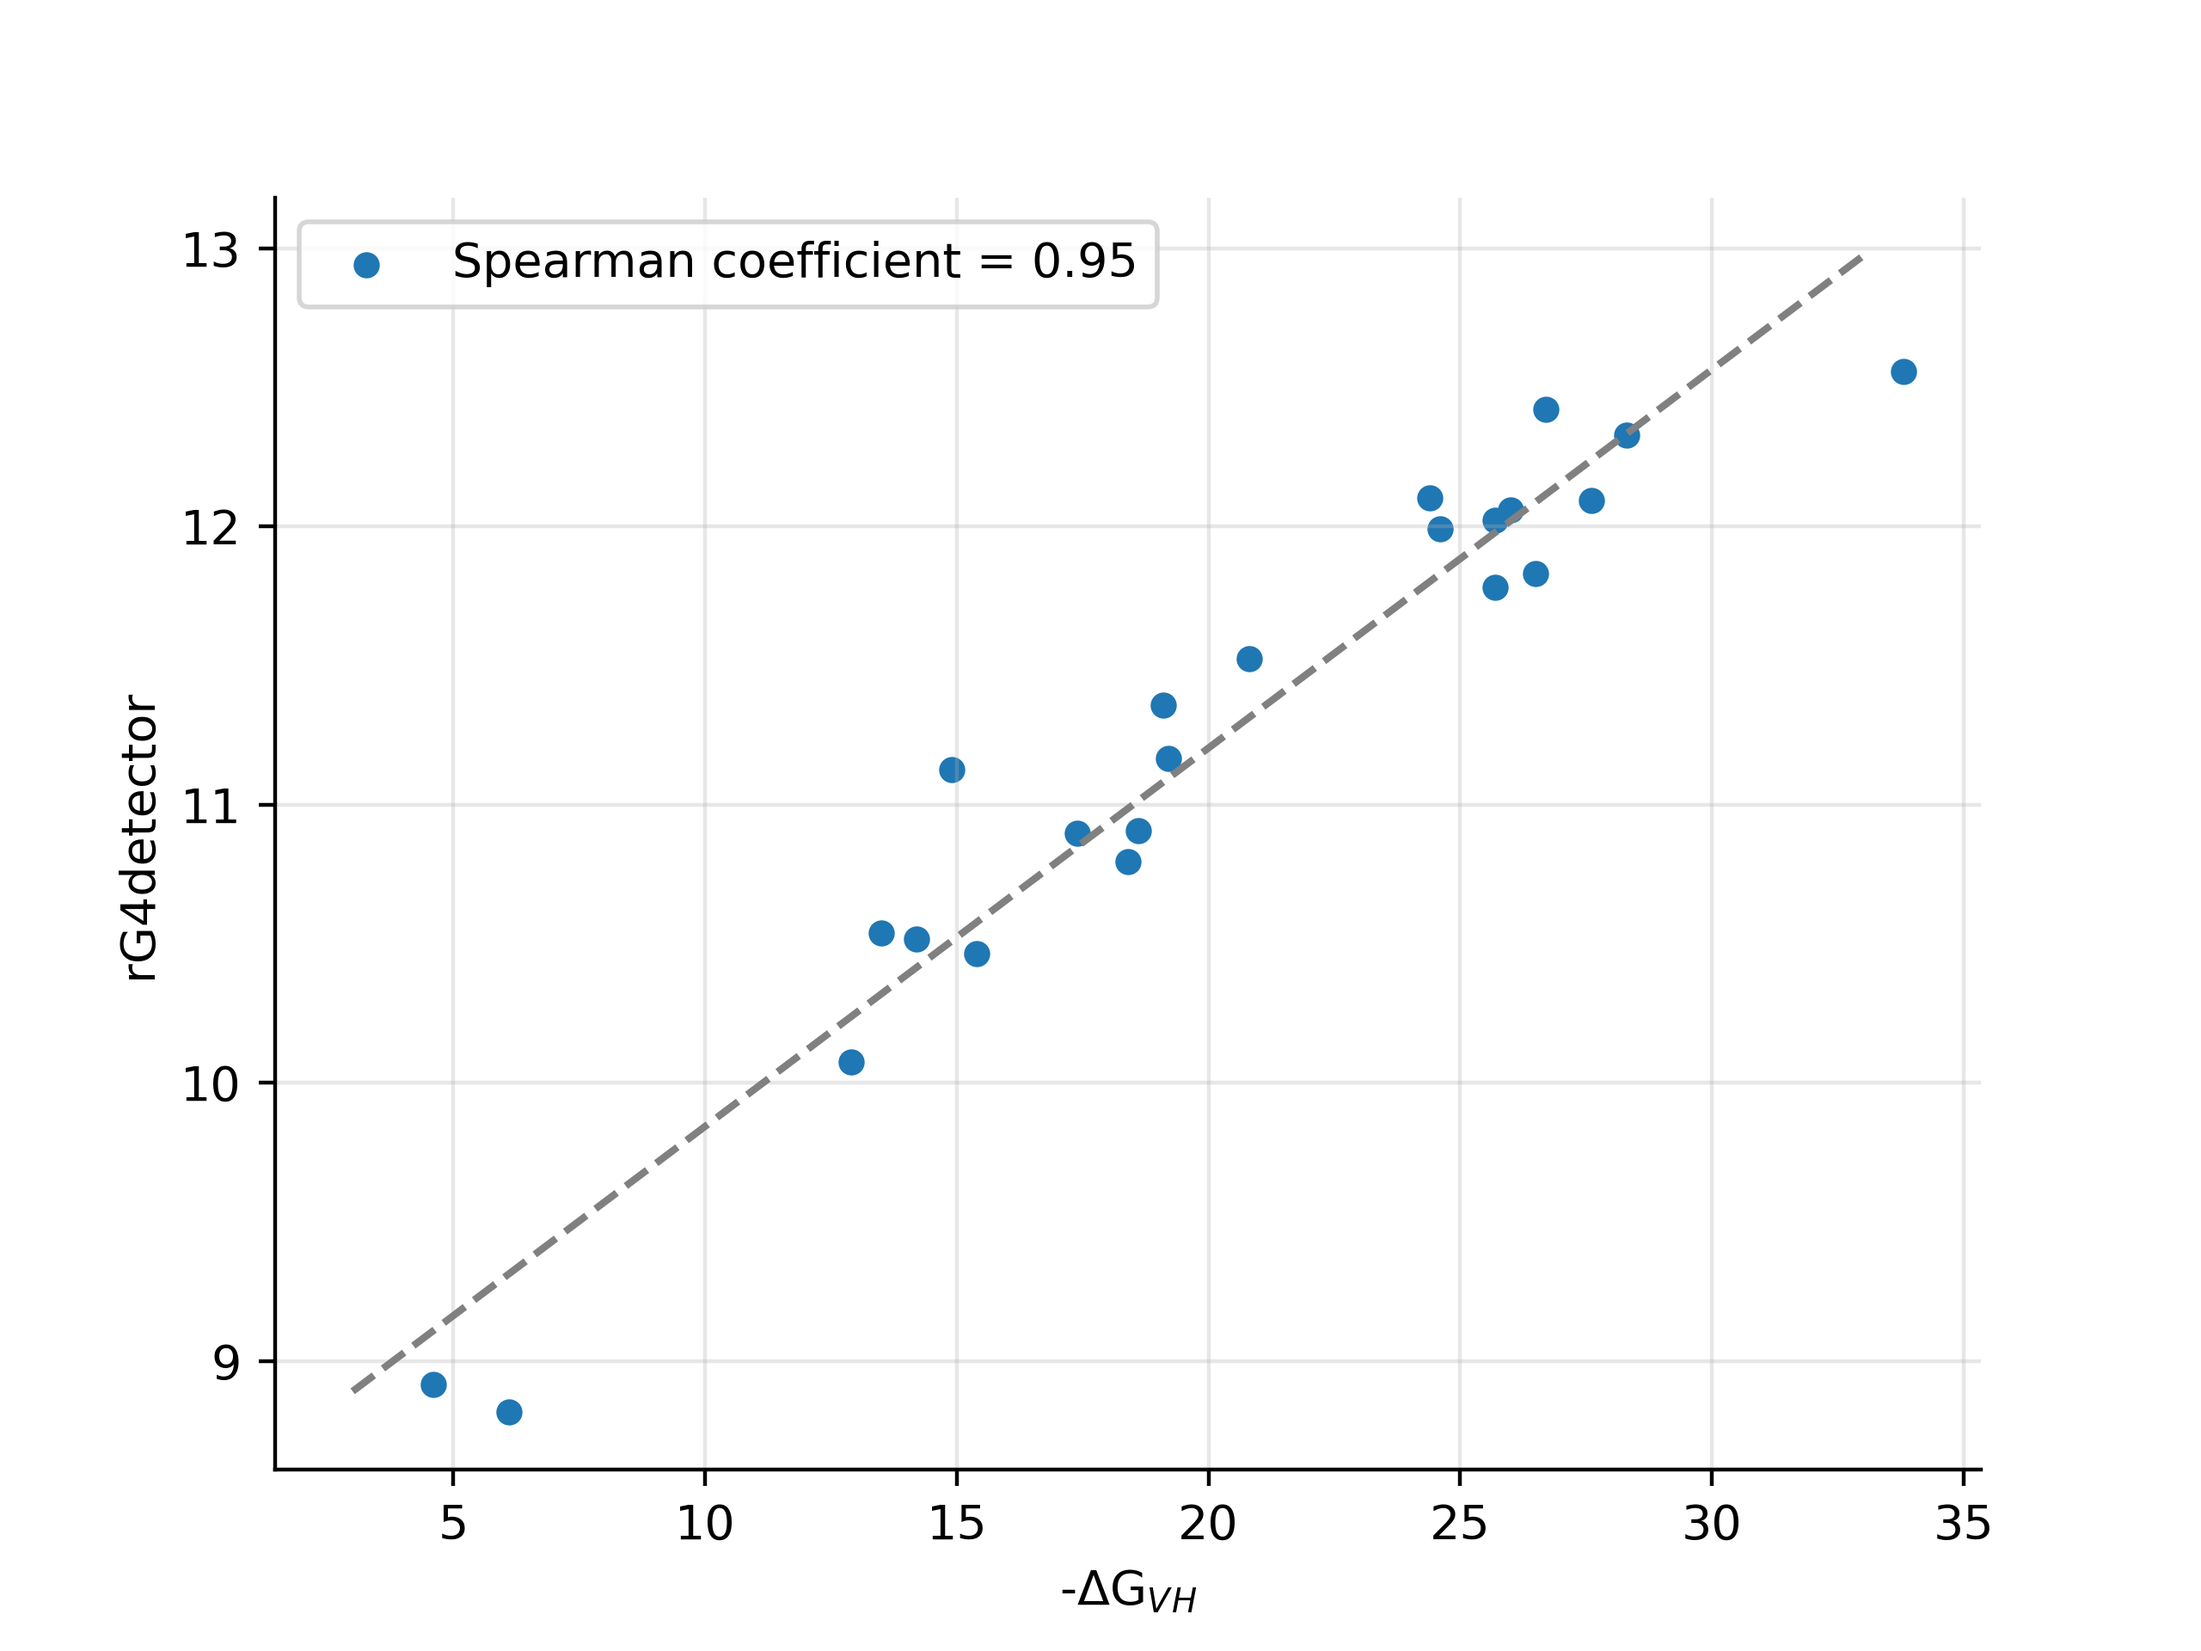
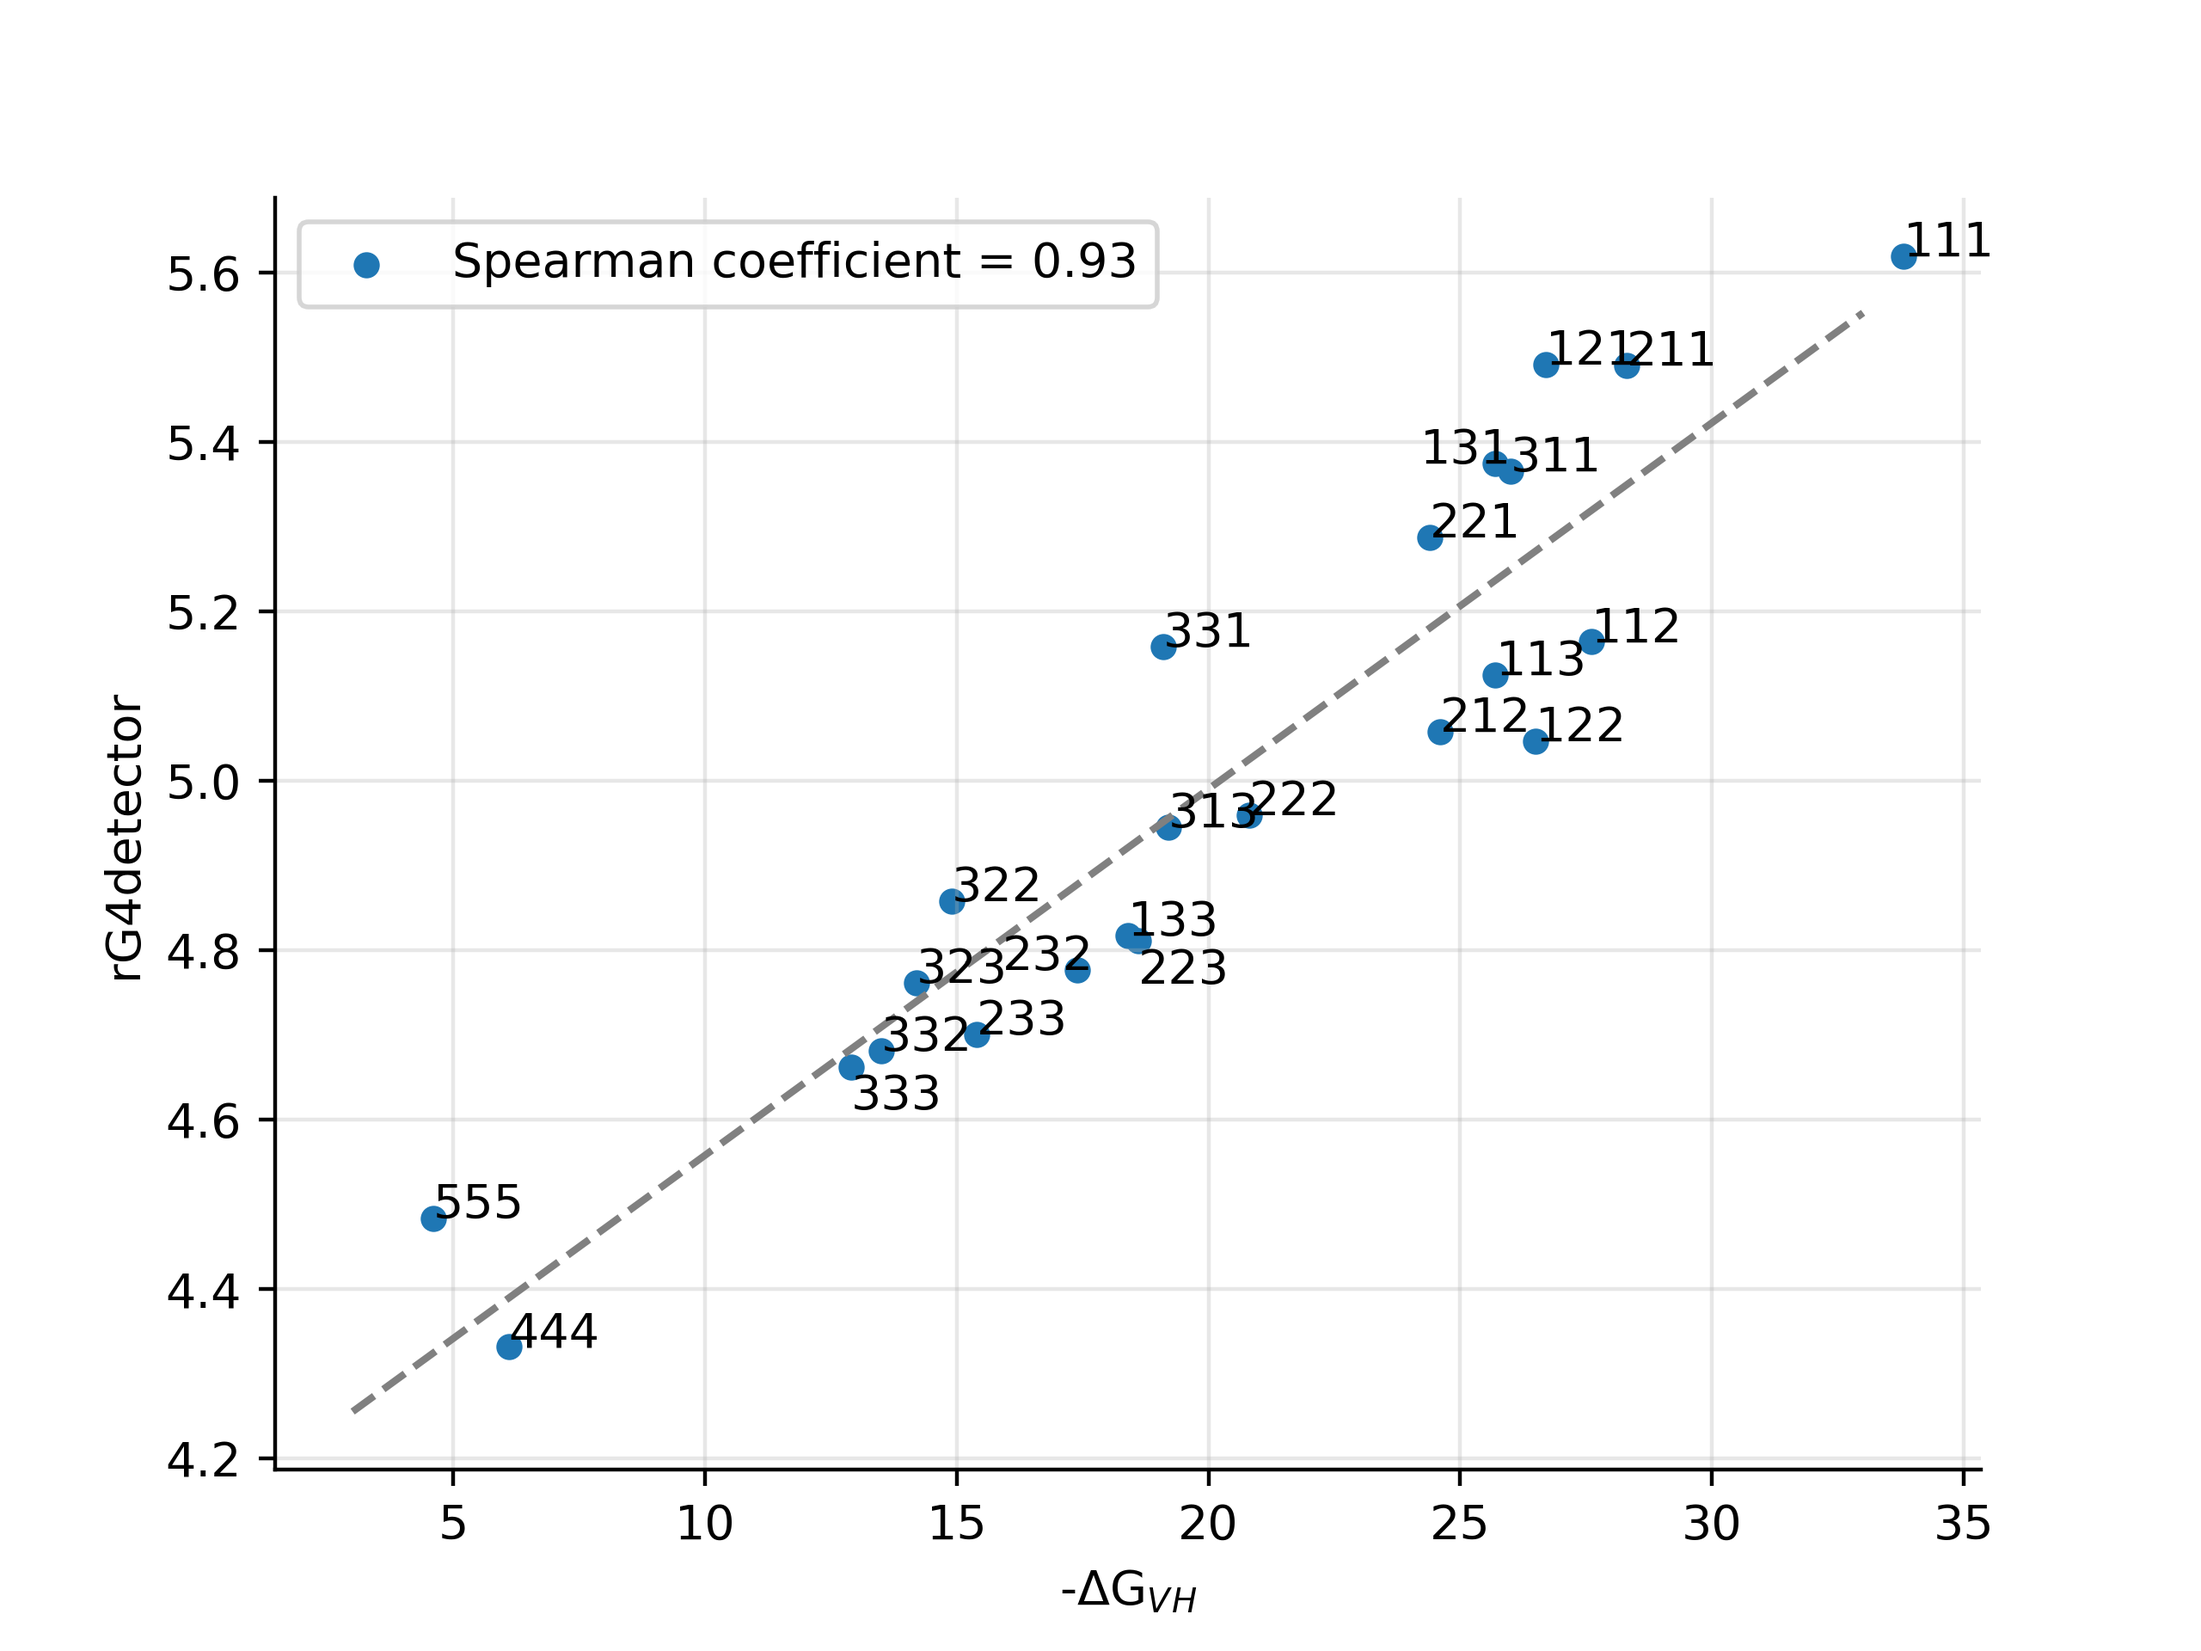
...

diff --git a/code/interpretation.py b/code/interpretation.py
@@ -93,17 +93,17 @@ def loop_length_test2(model, data_size, output=None, plot=True):
     ax.spines['top'].set_visible(False)
     ax.spines['right'].set_visible(False)
     # plt.text(location["Delta Gvh"], location["rG4detector"], loop[1:], c="b")
-    # for loop, location in data.iterrows():
-    #     if loop[1:] == "333":
-    #         plt.annotate(loop[1:], (location["Delta Gvh"], location["rG4detector"]-0.05))
-    #     elif loop[1:] == "223":
-    #         plt.annotate(loop[1:], (location["Delta Gvh"], location["rG4detector"]-0.05))
-    #     elif loop[1:] == "232":
-    #         plt.annotate(loop[1:], (location["Delta Gvh"]-1.5, location["rG4detector"]))
-    #     elif loop[1:] == "131":
-    #         plt.annotate(loop[1:], (location["Delta Gvh"]-1.5, location["rG4detector"]))
-    #     else:
-    #         plt.annotate(loop[1:], location)
+    for loop, location in data.iterrows():
+        if loop[1:] == "333":
+            plt.annotate(loop[1:], (location["Delta Gvh"], location["rG4detector"]-0.05))
+        elif loop[1:] == "223":
+            plt.annotate(loop[1:], (location["Delta Gvh"], location["rG4detector"]-0.05))
+        elif loop[1:] == "232":
+            plt.annotate(loop[1:], (location["Delta Gvh"]-1.5, location["rG4detector"]))
+        elif loop[1:] == "131":
+            plt.annotate(loop[1:], (location["Delta Gvh"]-1.5, location["rG4detector"]))
+        else:
+            plt.annotate(loop[1:], location)
     if output:
         plt.savefig(output + f"/Loop length combination test", dpi=400)
     if plot:
@@ -252,7 +252,7 @@ def stretches_length_test(model, data_size, output):
             seq = ("G"*stretch_size + "N"*loops_size)*3 + "G"*stretch_size
             # print(set_seq(seq, data_size, extra=0))
             seq_list.append(set_seq(seq, data_size))
-        stretch_predictions[loops_size] = make_prediction(model, seq_list)
+        stretch_predictions[loops_size] = make_prediction(model, seq_list).reshape(max_stretch)
         ax.plot(range(min_stretch, max_stretch + 1), stretch_predictions[loops_size], 'o--', label=f"loops size = {loops_size}")
     ax.set_xticks(range(min_stretch, max_stretch+1))
     plt.xlabel("Stretches length")
@@ -266,23 +266,22 @@ def stretches_length_test(model, data_size, output):
     # TODO
     if PLOT:
         plt.show()
-    # with open(output + f"Stretches influence.csv", "w") as f:
-    #     f.write("stretch size, rG4detector prediction")
-    #     for j, p in zip(range(min_stretch, max_stretch + 1), stretch_predictions):
-    #         f.write(f"{j+1},{p}")
+    stretch_predictions["Stretches length"] = range(min_stretch, max_stretch + 1)
+    data_df = pd.DataFrame.from_dict(stretch_predictions).set_index("Stretches length")
+    data_df.rename(columns={x: f"loop length {x}" for x in range(1, 5)}).to_csv(output + f"/Stretches influence.csv")
 
 
 
 
 def main(model, output):
     data_size = get_input_size(model)
-    loop_length_test(model, data_size, output)
+    # loop_length_test(model, data_size, output)
     loop_length_test2(model, data_size, output)
-    mutation_effect(model, data_size, output)
+    # mutation_effect(model, data_size, output)
     seq = "CTGCTGCCGCTACTGCGGAGTAGCTGCTTCCCTTCCTCCTCTCCCGGCGGCGGCGGCGGCAGCGGCGGAGGAGGAGGAGGAGGGGACCCGGGCGCAGAGAGCCG" \
           "GCCGGCGGCGCAGTTGCAGCGCGGAG"
-    mutation_map_test(model, data_size, output, seq)
-    stretches_length_test(model, data_size, output)
+    # mutation_map_test(model, data_size, output, seq)
+    # stretches_length_test(model, data_size, output)
 
 
 if __name__ == "__main__":

diff --git a/code/PARAMETERS.py b/code/PARAMETERS.py
@@ -9,15 +9,15 @@ HUMAN_V40_TRANSCRIPTOME_PATH = GENOMES_FILE + "gencode.v40.transcripts.fa"
 
 SCREENER_DETECTION_PATH = SCREENER_PATH + "detection/"
 SCREENER_DETECTION_PREDICTION_PATH = SCREENER_DETECTION_PATH + "screener_predictions.pkl"
-ENSEMBLE_SIZE = 1
+ENSEMBLE_SIZE = 11
 NUM_OF_ENSEMBLE_ITERATIONS = 50
 MOUSE_PATH = "independent_datasets/mouse/"
 MOUSE_DATA_PATH = MOUSE_PATH + "Table_S1_mouse.csv"
 
 MOUSE_SCREENER_LENGTH = 60
 DATA_SIZE = 80
-DETECTION_SIGMA = 7
-DETECTION_MU = 11
+DETECTION_SIGMA = 8
+DETECTION_MU = 12
 METHODS_LIST = ['cGcC', 'G4H', 'G4NN']
 DETECTION_RG4_SEEKER_HITS = "../detection/rg4-seeker-transcript-match-test.pkl"
 RG4_SEEKER_PATH = "../data/rG4-seeker-hits.csv"

diff --git a/code/calculate_correlation.py b/code/calculate_correlation.py
@@ -21,12 +21,12 @@ def get_rG4detector_human_corr(model, data_path):
     corr = pearsonr(preds, yTest)[0]
     sp_corr = spearmanr(preds, yTest)[0]
     print(f"rG4detector Spearman correlation = {sp_corr}")
-    # # TODO
-    plt.scatter(yTest, preds, 9)
-    plt.xlabel("Measured RSR ratio")
-    plt.ylabel("Predicted RSR ratio")
-    plt.savefig("Human_predictions_scatter_plot")
-    plt.show()
+    # TODO
+    # plt.scatter(yTest, preds, 9)
+    # plt.xlabel("Measured RSR ratio")
+    # plt.ylabel("Predicted RSR ratio")
+    # plt.savefig("Human_predictions_scatter_plot")
+    # plt.show()
     return corr
 
 

diff --git a/code/G4RNA_classification.py b/code/G4RNA_classification.py
@@ -54,7 +54,7 @@ def main(model, g4rna_dir):
             f.write(f"True positive rate,False positive rate\n")
             for tpr, fpr in zip(scores[m].y, scores[m].x):
                 f.write(f"{tpr},{fpr}\n")
-    with open(g4rna_dir + f"/results/G4RNA_AUC.csv", "w") as f:
+    with open(g4rna_dir + f"/results/{w}/G4RNA_AUC.csv", "w") as f:
         f.write(f",G4RNA AUC score\n")
         for m in scores:
             f.write(f"{m},{scores[m].auc}\n")
